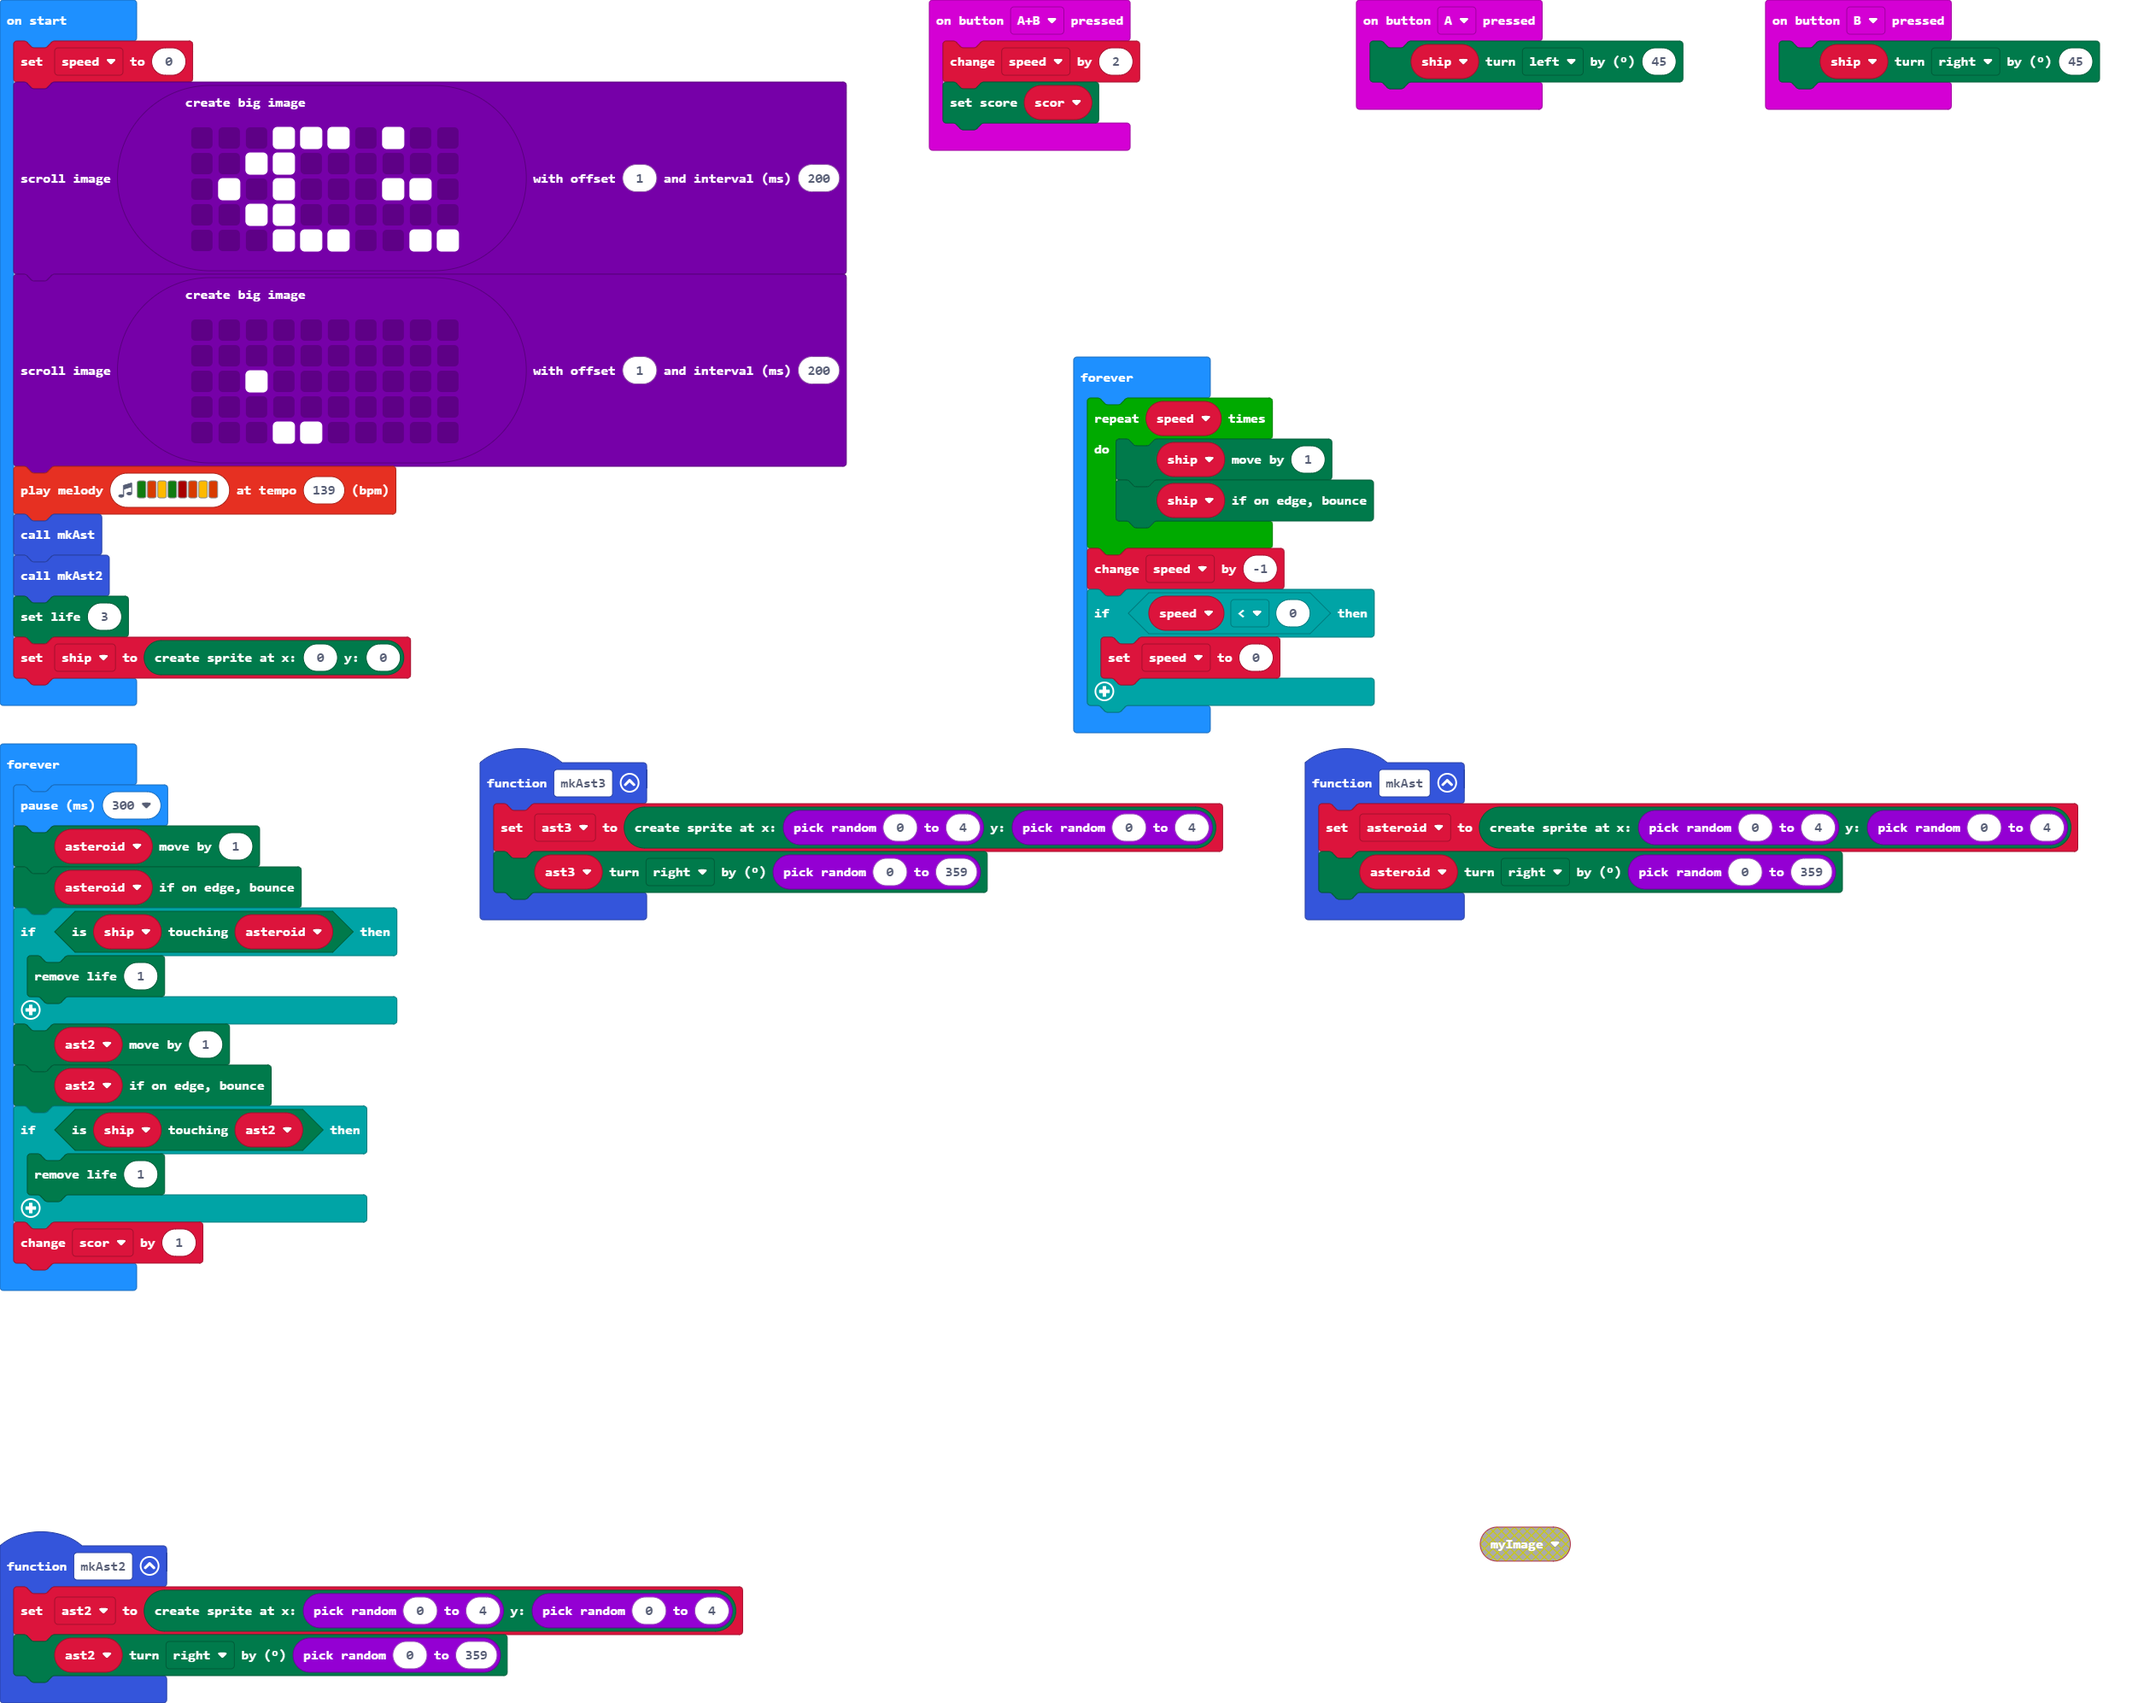
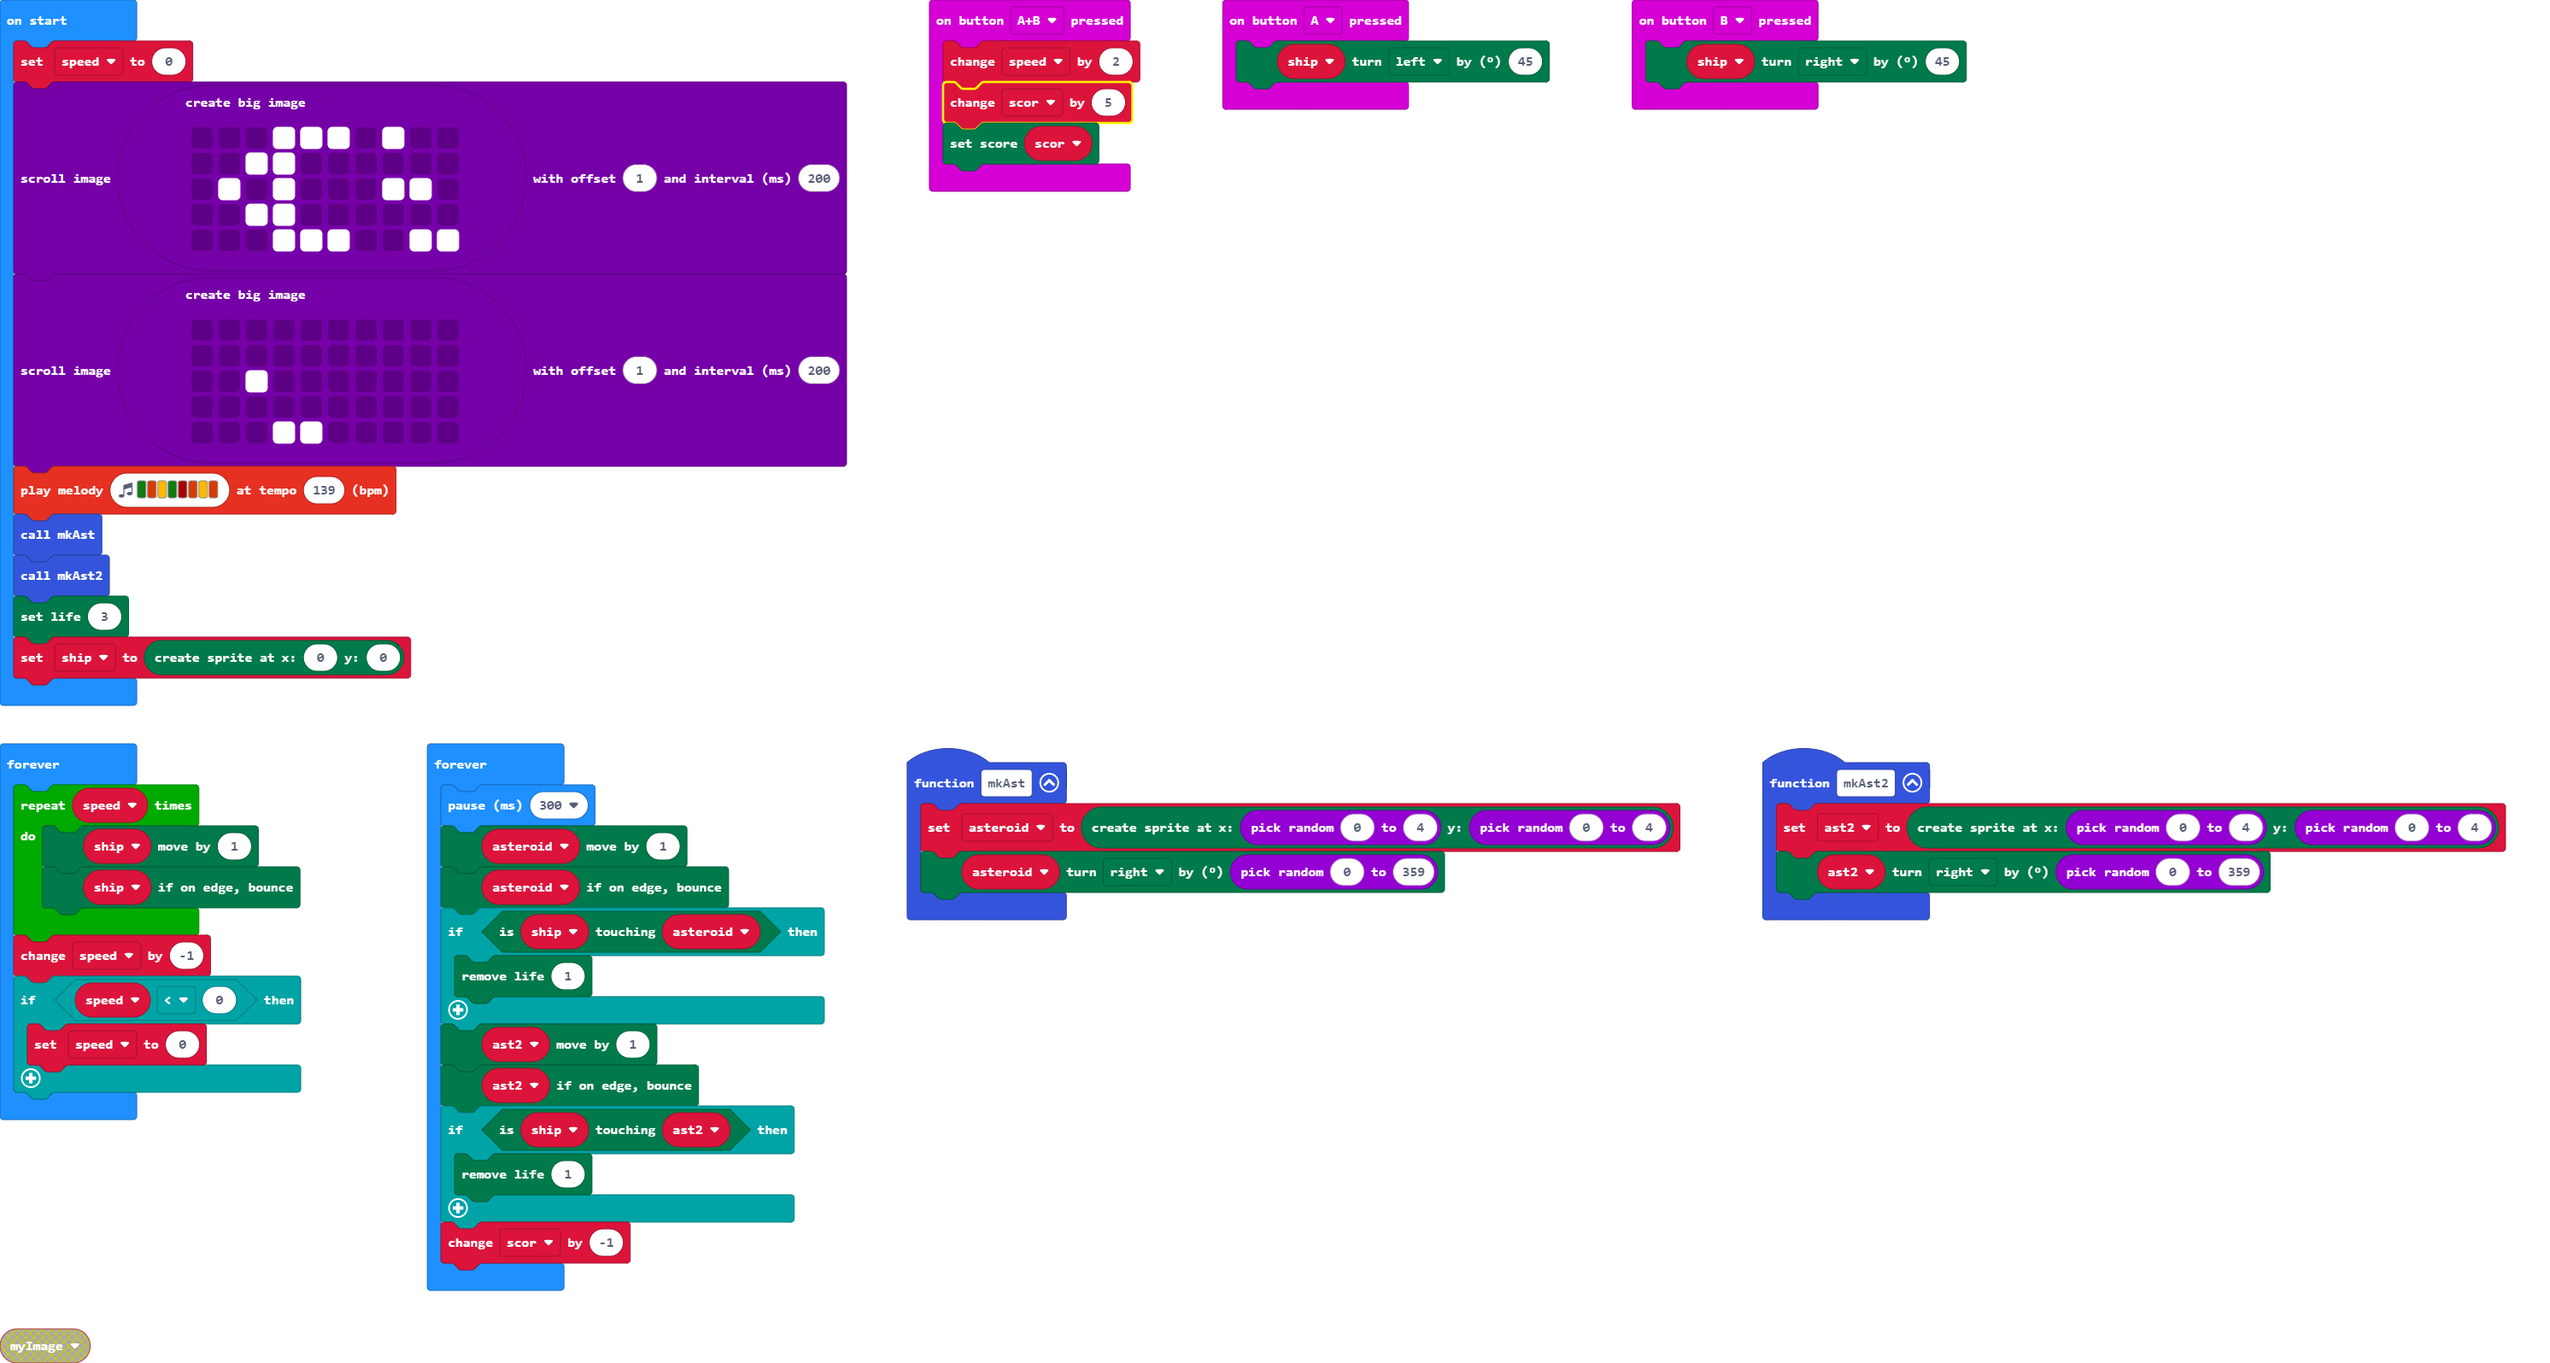
Update main.blocks, main.ts

Changed region(s): [[0.0, 0.0, 0.9944, 1.0], [0.6837, 0.8904, 0.7458, 0.9211], [0.0, 0.0921, 0.0311, 0.1535]]

diff --git a/main.ts b/main.ts
@@ -1,7 +1,3 @@
-function mkAst3 () {
-    ast3 = game.createSprite(randint(0, 4), randint(0, 4))
-    ast3.turn(Direction.Right, randint(0, 359))
-}
 function mkAst () {
     asteroid = game.createSprite(randint(0, 4), randint(0, 4))
     asteroid.turn(Direction.Right, randint(0, 359))
@@ -11,6 +7,7 @@ input.onButtonPressed(Button.A, function () {
 })
 input.onButtonPressed(Button.AB, function () {
     speed += 2
+    scor += 5
     game.setScore(scor)
 })
 input.onButtonPressed(Button.B, function () {
@@ -23,7 +20,6 @@ function mkAst2 () {
 let ast2: game.LedSprite = null
 let scor = 0
 let asteroid: game.LedSprite = null
-let ast3: game.LedSprite = null
 let ship: game.LedSprite = null
 let speed = 0
 images.createBigImage(`
@@ -67,5 +63,5 @@ basic.forever(function () {
     if (ship.isTouching(ast2)) {
         game.removeLife(1)
     }
-    scor += 1
+    scor += -1
 })
